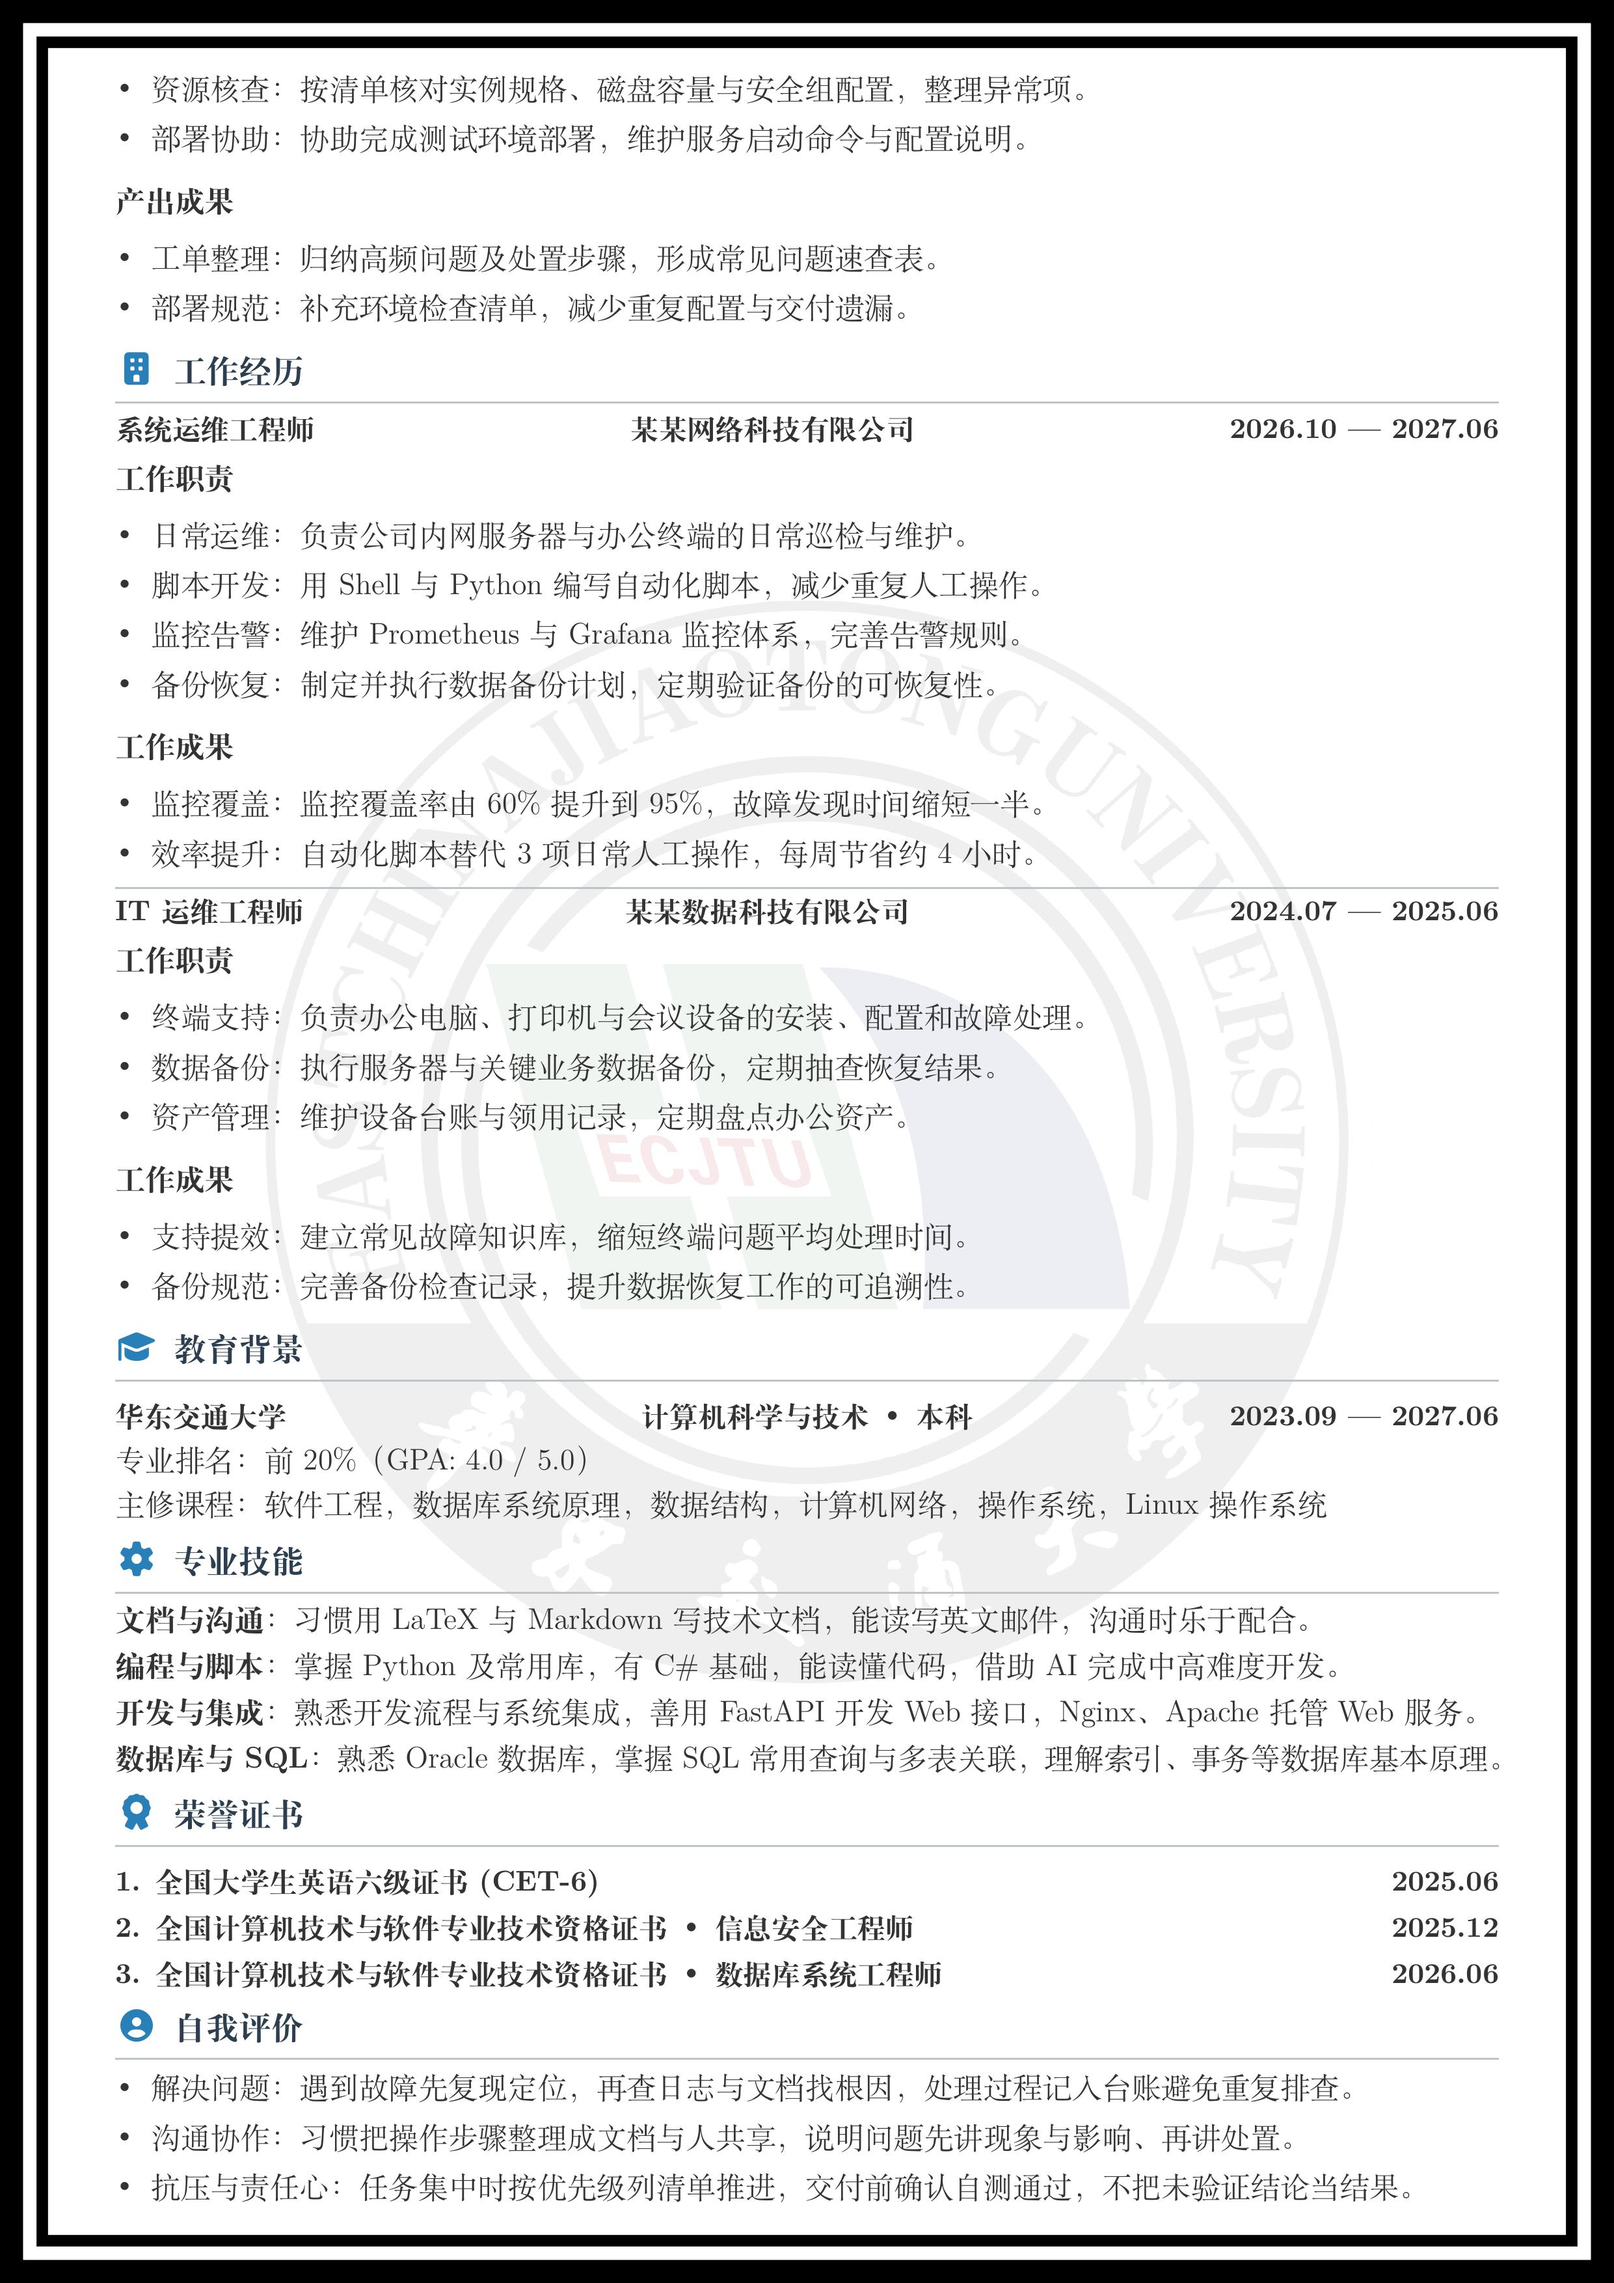
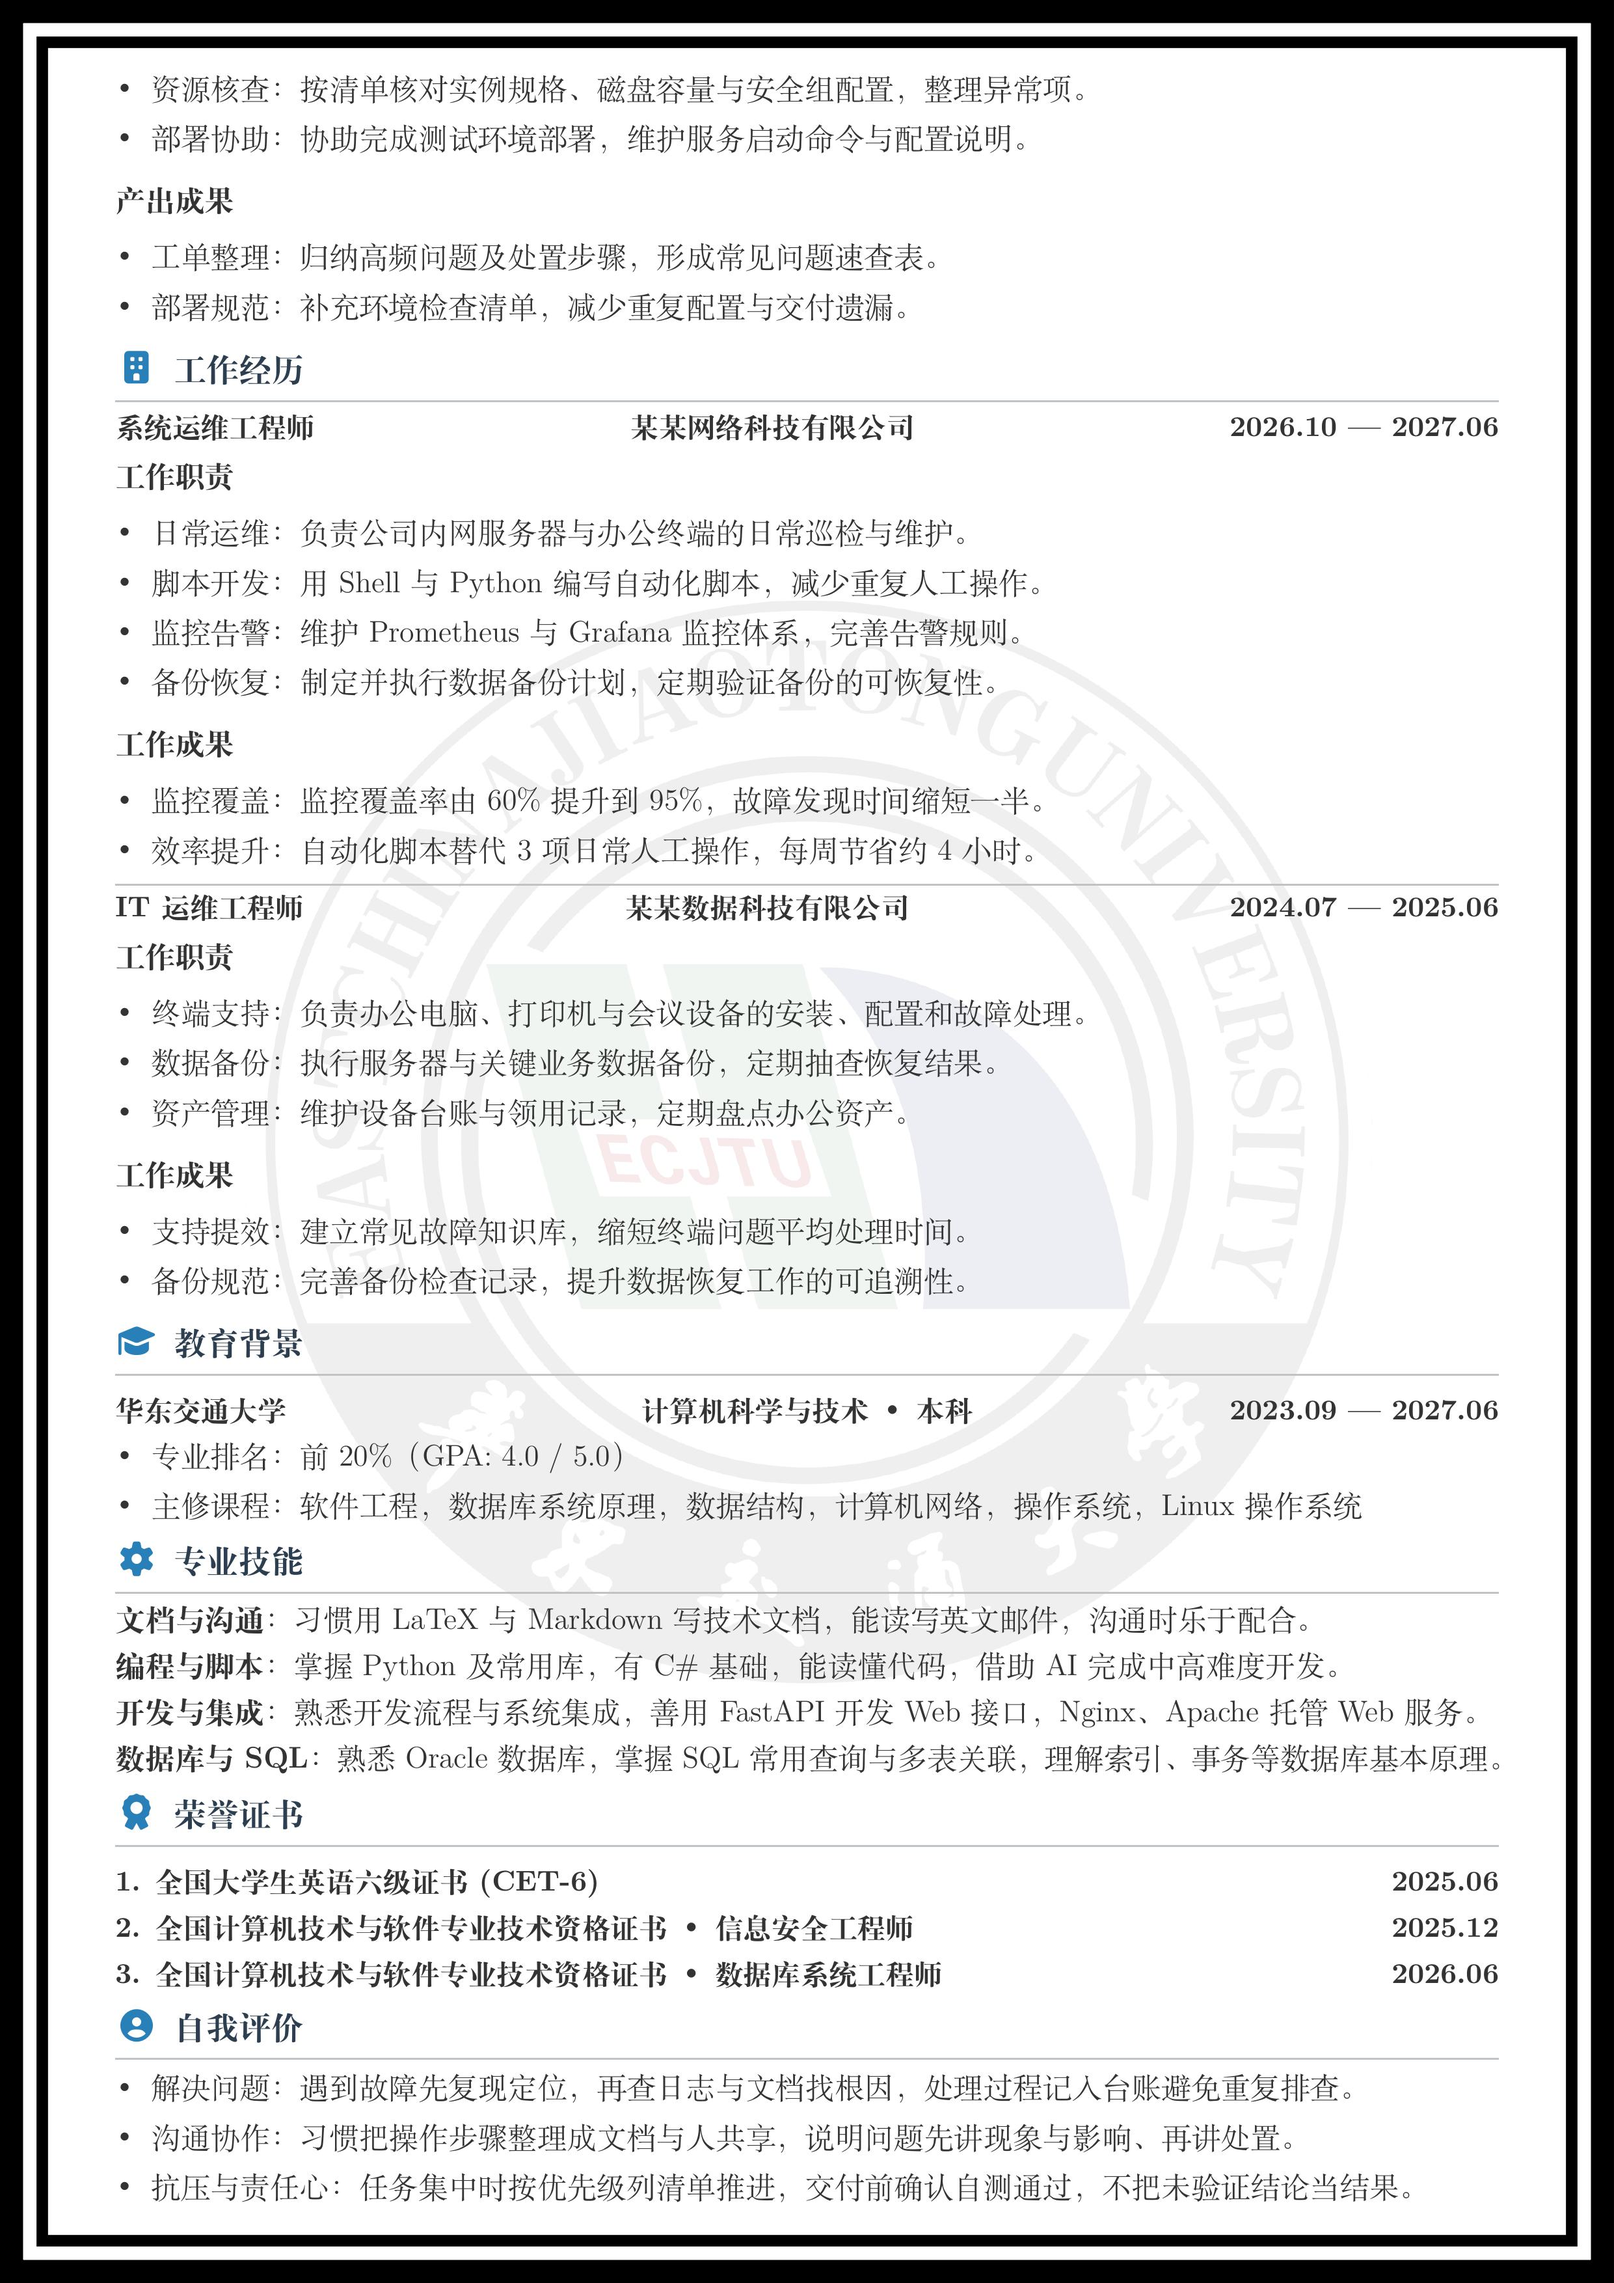
优化教育背景模块的排版效果 (#28)

diff --git a/src/templates/tzcan/main.tex b/src/templates/tzcan/main.tex
@@ -166,8 +166,10 @@
   school  = {华东交通大学},
   major   = {计算机科学与技术},
   degree  = {本科},
-  rank    = {前20\%（GPA:~4.0~/~5.0）},
-  courses = {软件工程，数据库系统原理，数据结构，计算机网络，操作系统，Linux操作系统},
+  content = {
+  \item 专业排名：前20\%（GPA:~4.0~/~5.0）
+  \item 主修课程：软件工程，数据库系统原理，数据结构，计算机网络，操作系统，Linux操作系统
+  },
 }
 
 % ============================================

diff --git a/src/templates/tzcan/USAGE.md b/src/templates/tzcan/USAGE.md
@@ -330,8 +330,10 @@ tech = {Python~\midbullet~Pandas~\midbullet~SQLite}
   school  = {某某大学},
   major   = {某某专业},
   degree  = {本科},
-  rank    = {前20\%（GPA:~4.0~/~5.0）},
-  courses = {软件工程，数据库系统原理，数据结构，计算机网络},
+  content = {
+    \item 专业排名：前20\%（GPA:~4.0~/~5.0）
+    \item 主修课程：软件工程，数据库系统原理，数据结构，计算机网络
+  },
 }
 ```
 
@@ -341,12 +343,11 @@ tech = {Python~\midbullet~Pandas~\midbullet~SQLite}
 | `school` | 学校 | 标题行左侧，加粗 |
 | `major` | 专业 | 可省略 |
 | `degree` | 学历 | 如「本科」「硕士」 |
-| `rank` | 排名或绩点 | 自动补常规字重的「专业排名：」 |
-| `courses` | 主修课程 | 自动补常规字重的「主修课程：」 |
+| `content` | 补充内容 | 使用 `\item` 填写任意条目 |
 
-学校位于标题行左侧，专业与学历自动连接后居中，日期位于同一行右端。缺少哪项就跳过哪项；专业排名与主修课程等内容从左侧开始对齐。
+学校位于标题行左侧，专业与学历自动连接后居中，日期位于同一行右端。缺少哪项就跳过哪项；`content` 中的条目会作为小号、常规字重的圆点列表从左侧开始排列。
 
-可连续调用多次 `\cveducation` 添加多段教育经历。每段使用独立的键值内容，示例中的 `rank` 对应“专业排名”，不要继续使用旧键名 `gpa`。
+可连续调用多次 `\cveducation` 添加多段教育经历。每段使用独立的键值内容，排名、课程或其他补充信息统一写在 `content` 中。
 
 ### `\cvskillcategory` 专业技能
 
